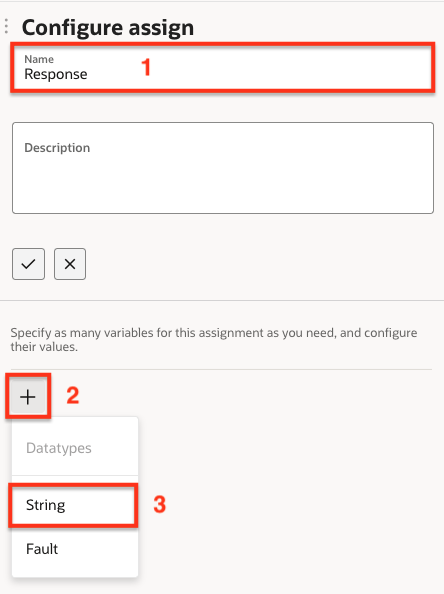
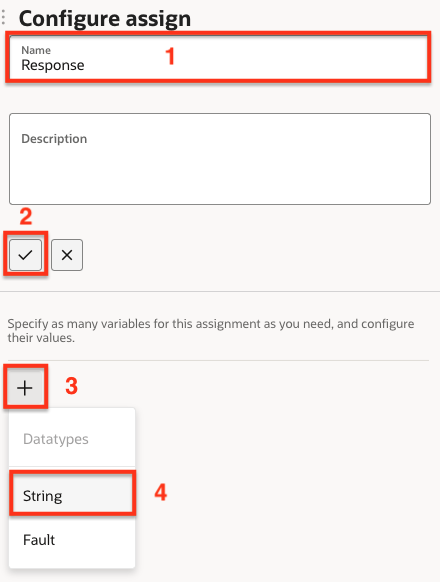
RPA updates

diff --git a/oic-gen3/experiential/get-started-rpa/create-test-integration/create-test-integration.md b/oic-gen3/experiential/get-started-rpa/create-test-integration/create-test-integration.md
@@ -68,34 +68,29 @@ Create a scheduled integration that will invoke the robot and pass input paramet
 
     ![Show robot action](images/integration_show-robot-action.png " ")
 
-10. On the Integration canvas, hover to the right and click on the ![Actions button](images/actions-button.png) (**Actions**) button.
+10. Move below the **Robot process** activity and click on the **+** button.
 
-11. Under the **Actions** section, look for **Assign**.
+    ![Add activity below Robot call](images/integration_add-activity-below-robot.png " ")
 
-    ![Select Assign action](images/actions-menu_select-assign.png)
-
-12. Drag the **Assign** action over to the integration, and add it below the Robot process.
-
-    ![Add Assign action](images/integration_add-assign-action.png)
-
-13. In the **Configure assign** panel, take the following steps:
+11. In the **Configure assign** panel, take the following steps:
 
     1. Change **Name** to `Response`
-    2. Click **+** to add a variable
-    3. Select Datatype **String**
+    2. Click on the **Apply** button to save name change
+    3. Click **+** to add a variable
+    4. Select Datatype **String**
 
     ![Configure Assign action](images/assign-action_configure.png " ")
 
-14. With the side panel displayed, take the following steps:
+12. With the side panel displayed, take the following steps:
 
     1. Change **Variable** to <copy>`vSupplierName`<copy>
     2. On **Input sources** tab, expand **$CallRobot > RPAFlowResponse > ResponseWrapper** and drag `SupplierName` to the **Value** textbox on the right.
 
     ![Configure Assign variable](images/assign-action_configure-variable.png " ")
 
-15. Click **Save** to close the panel.
+13. Click **Save** to close the panel.
 
-16. On the integration canvas, click **Save**.
+14. On the integration canvas, click **Save**.
 
 ## Task 2: Add Scheduled parameters
 
@@ -167,7 +162,7 @@ Once the integration is `Active`, we can run it on-demand.
 
 1. On the right side of the integration, click on **...** (**Options**), then select **Run**.
 
-2. On the **Configure and run** panel, enter the previously obtained PO Number under the **Current Value** field. Keep all other values as default. 
+2. On the **Configure and run** panel, enter the previously obtained PO Number under the **Current Value** field (see sample value). Keep all other values as default.
 
     ![Configure and run parameters](images/configure-run_parameters.png " ")
 
@@ -177,11 +172,13 @@ Once the integration is `Active`, we can run it on-demand.
 
 After clicking **Run** to start the integration, a side panel of **Activity stream** will appear. Here we will observe the status of the integration run.
 
-1. After the robot run has completed, click the ![Refresh Button](images/refresh-button.png) (**Refresh**) button until you seen the message `Processing completed successfully`
+1. After the robot run has completed, move to the **Activity stream** panel and click the ![Refresh Button](images/refresh-button.png) (**Refresh**) button until you see the message `Processing completed successfully`.
 
     ![Activity Stream run completed](images/activity-stream_run-completed.png " ")
 
-2. Expand the **Invoke CallRobot** activity to verify the rob run.
+2. Expand the **Invoke CallRobot** activity to verify the robot run.
+
+    ![Activity Stream robot invoke call](images/activity-stream_invoke-robot-call.png " ")
 
 3. Expand the 
 
